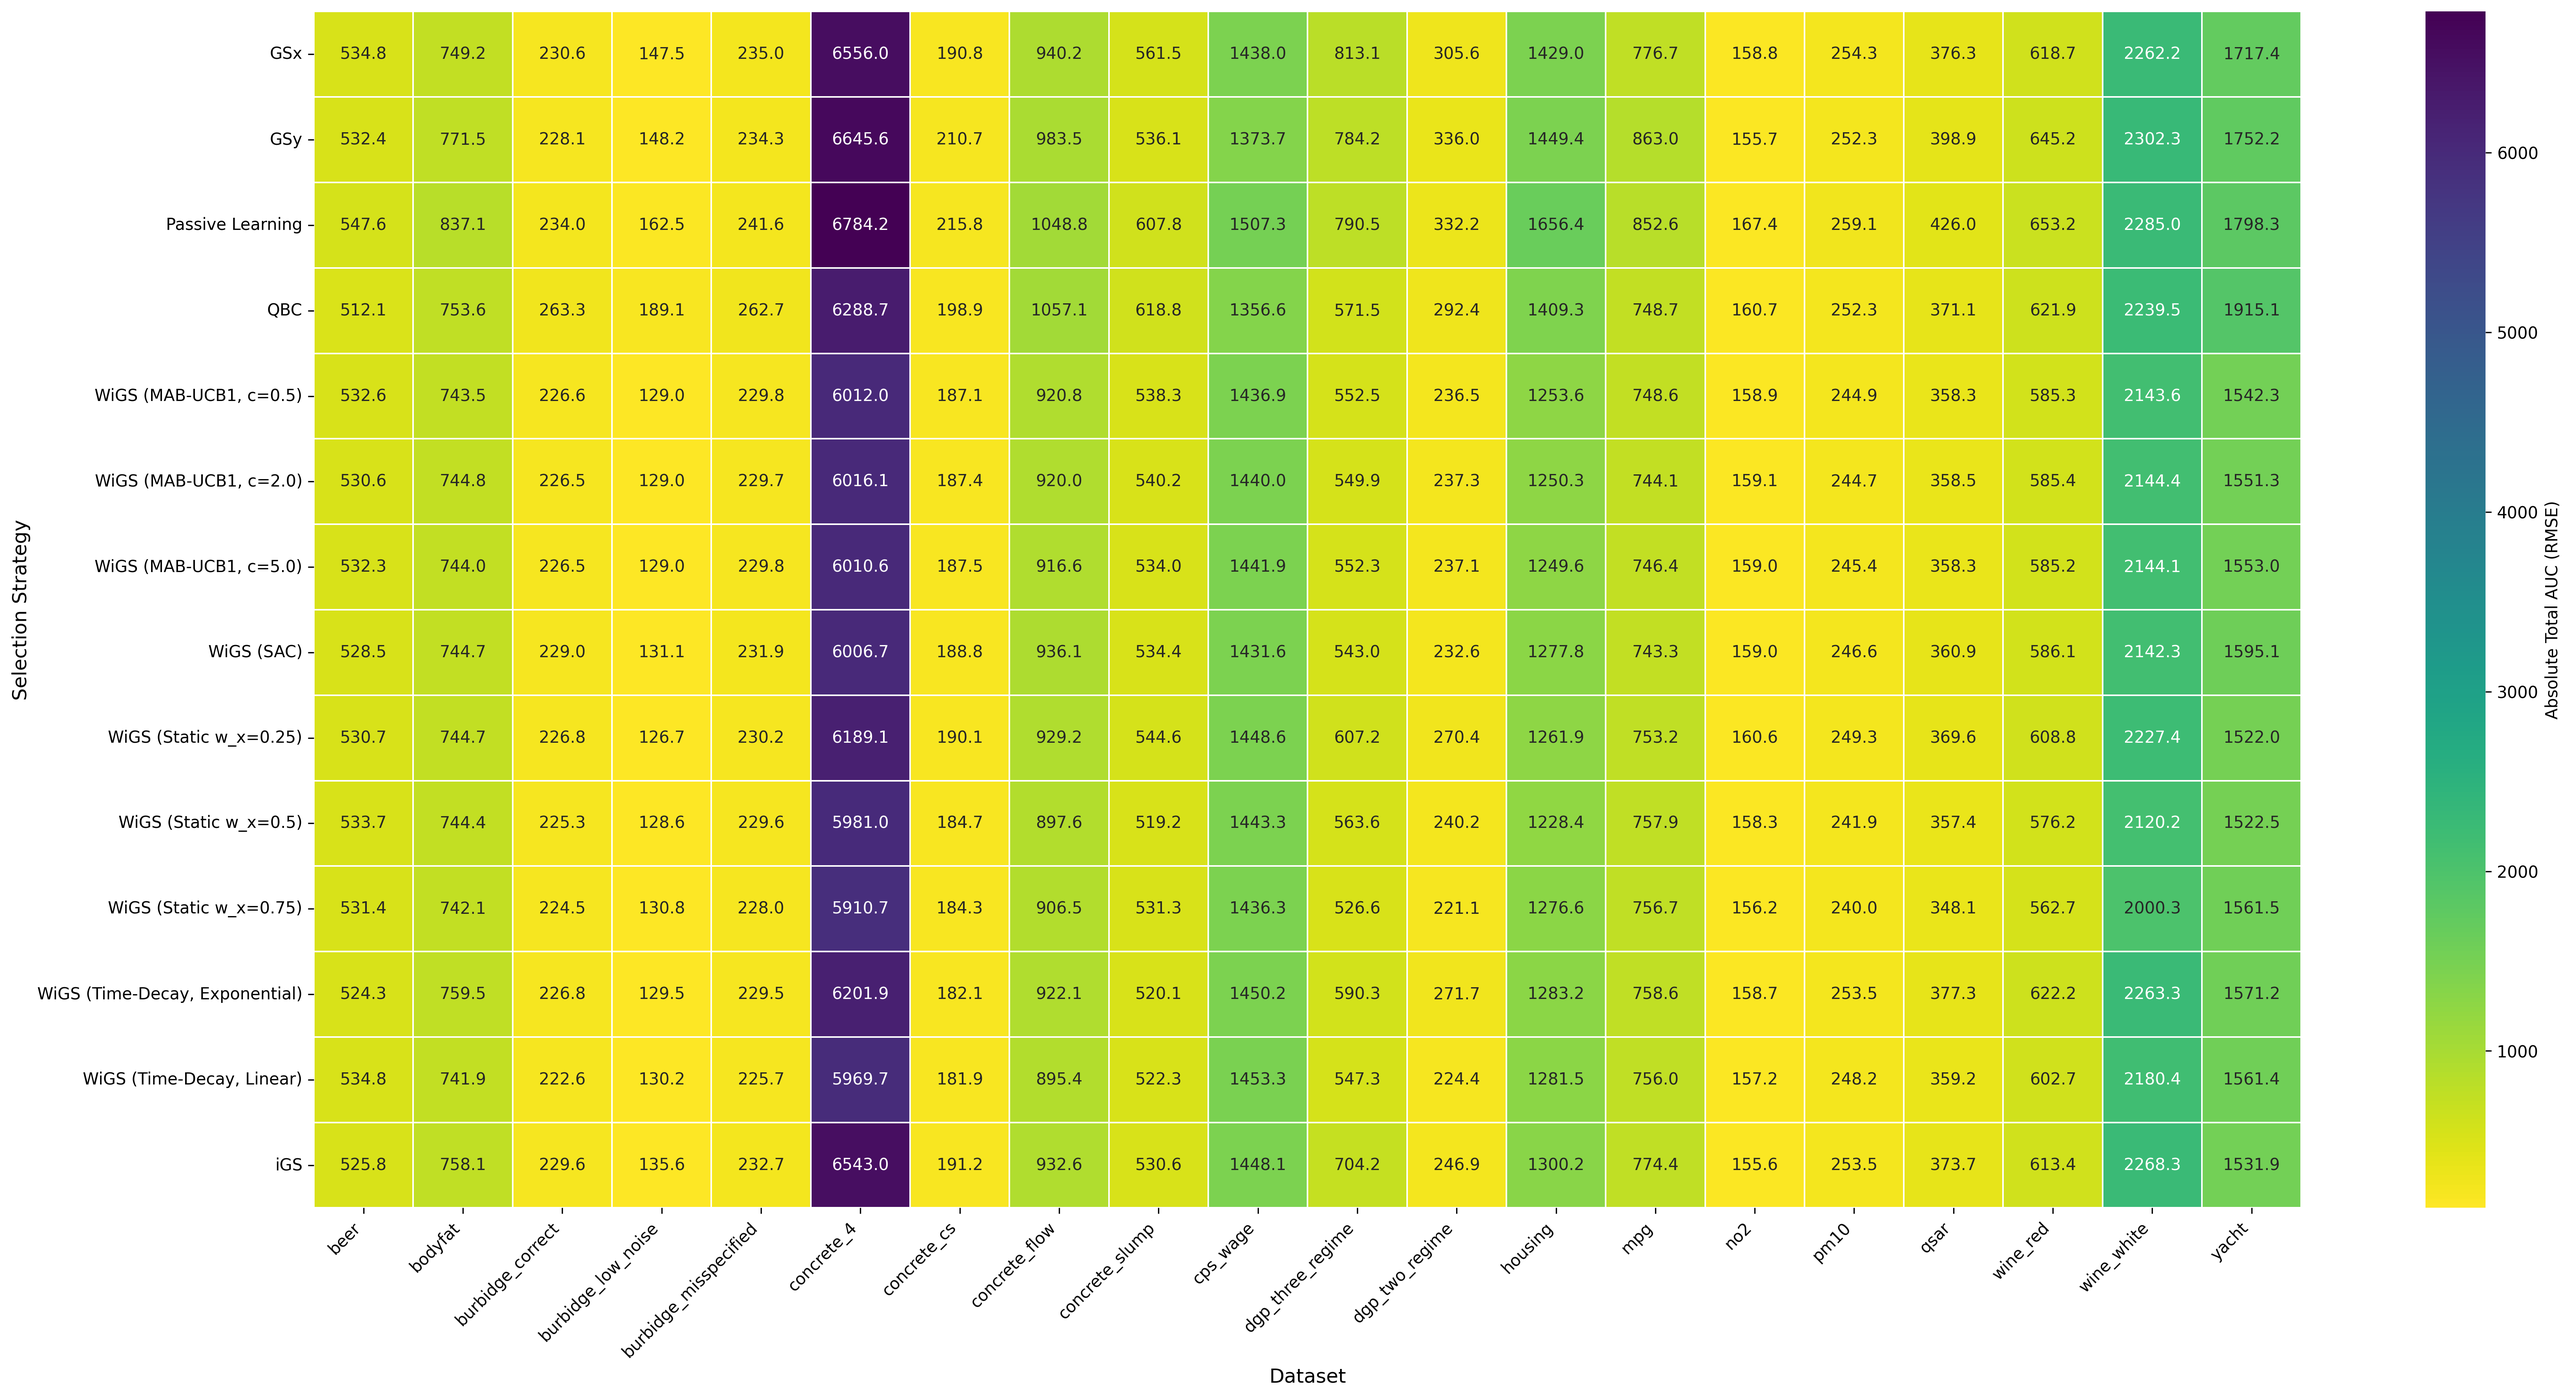
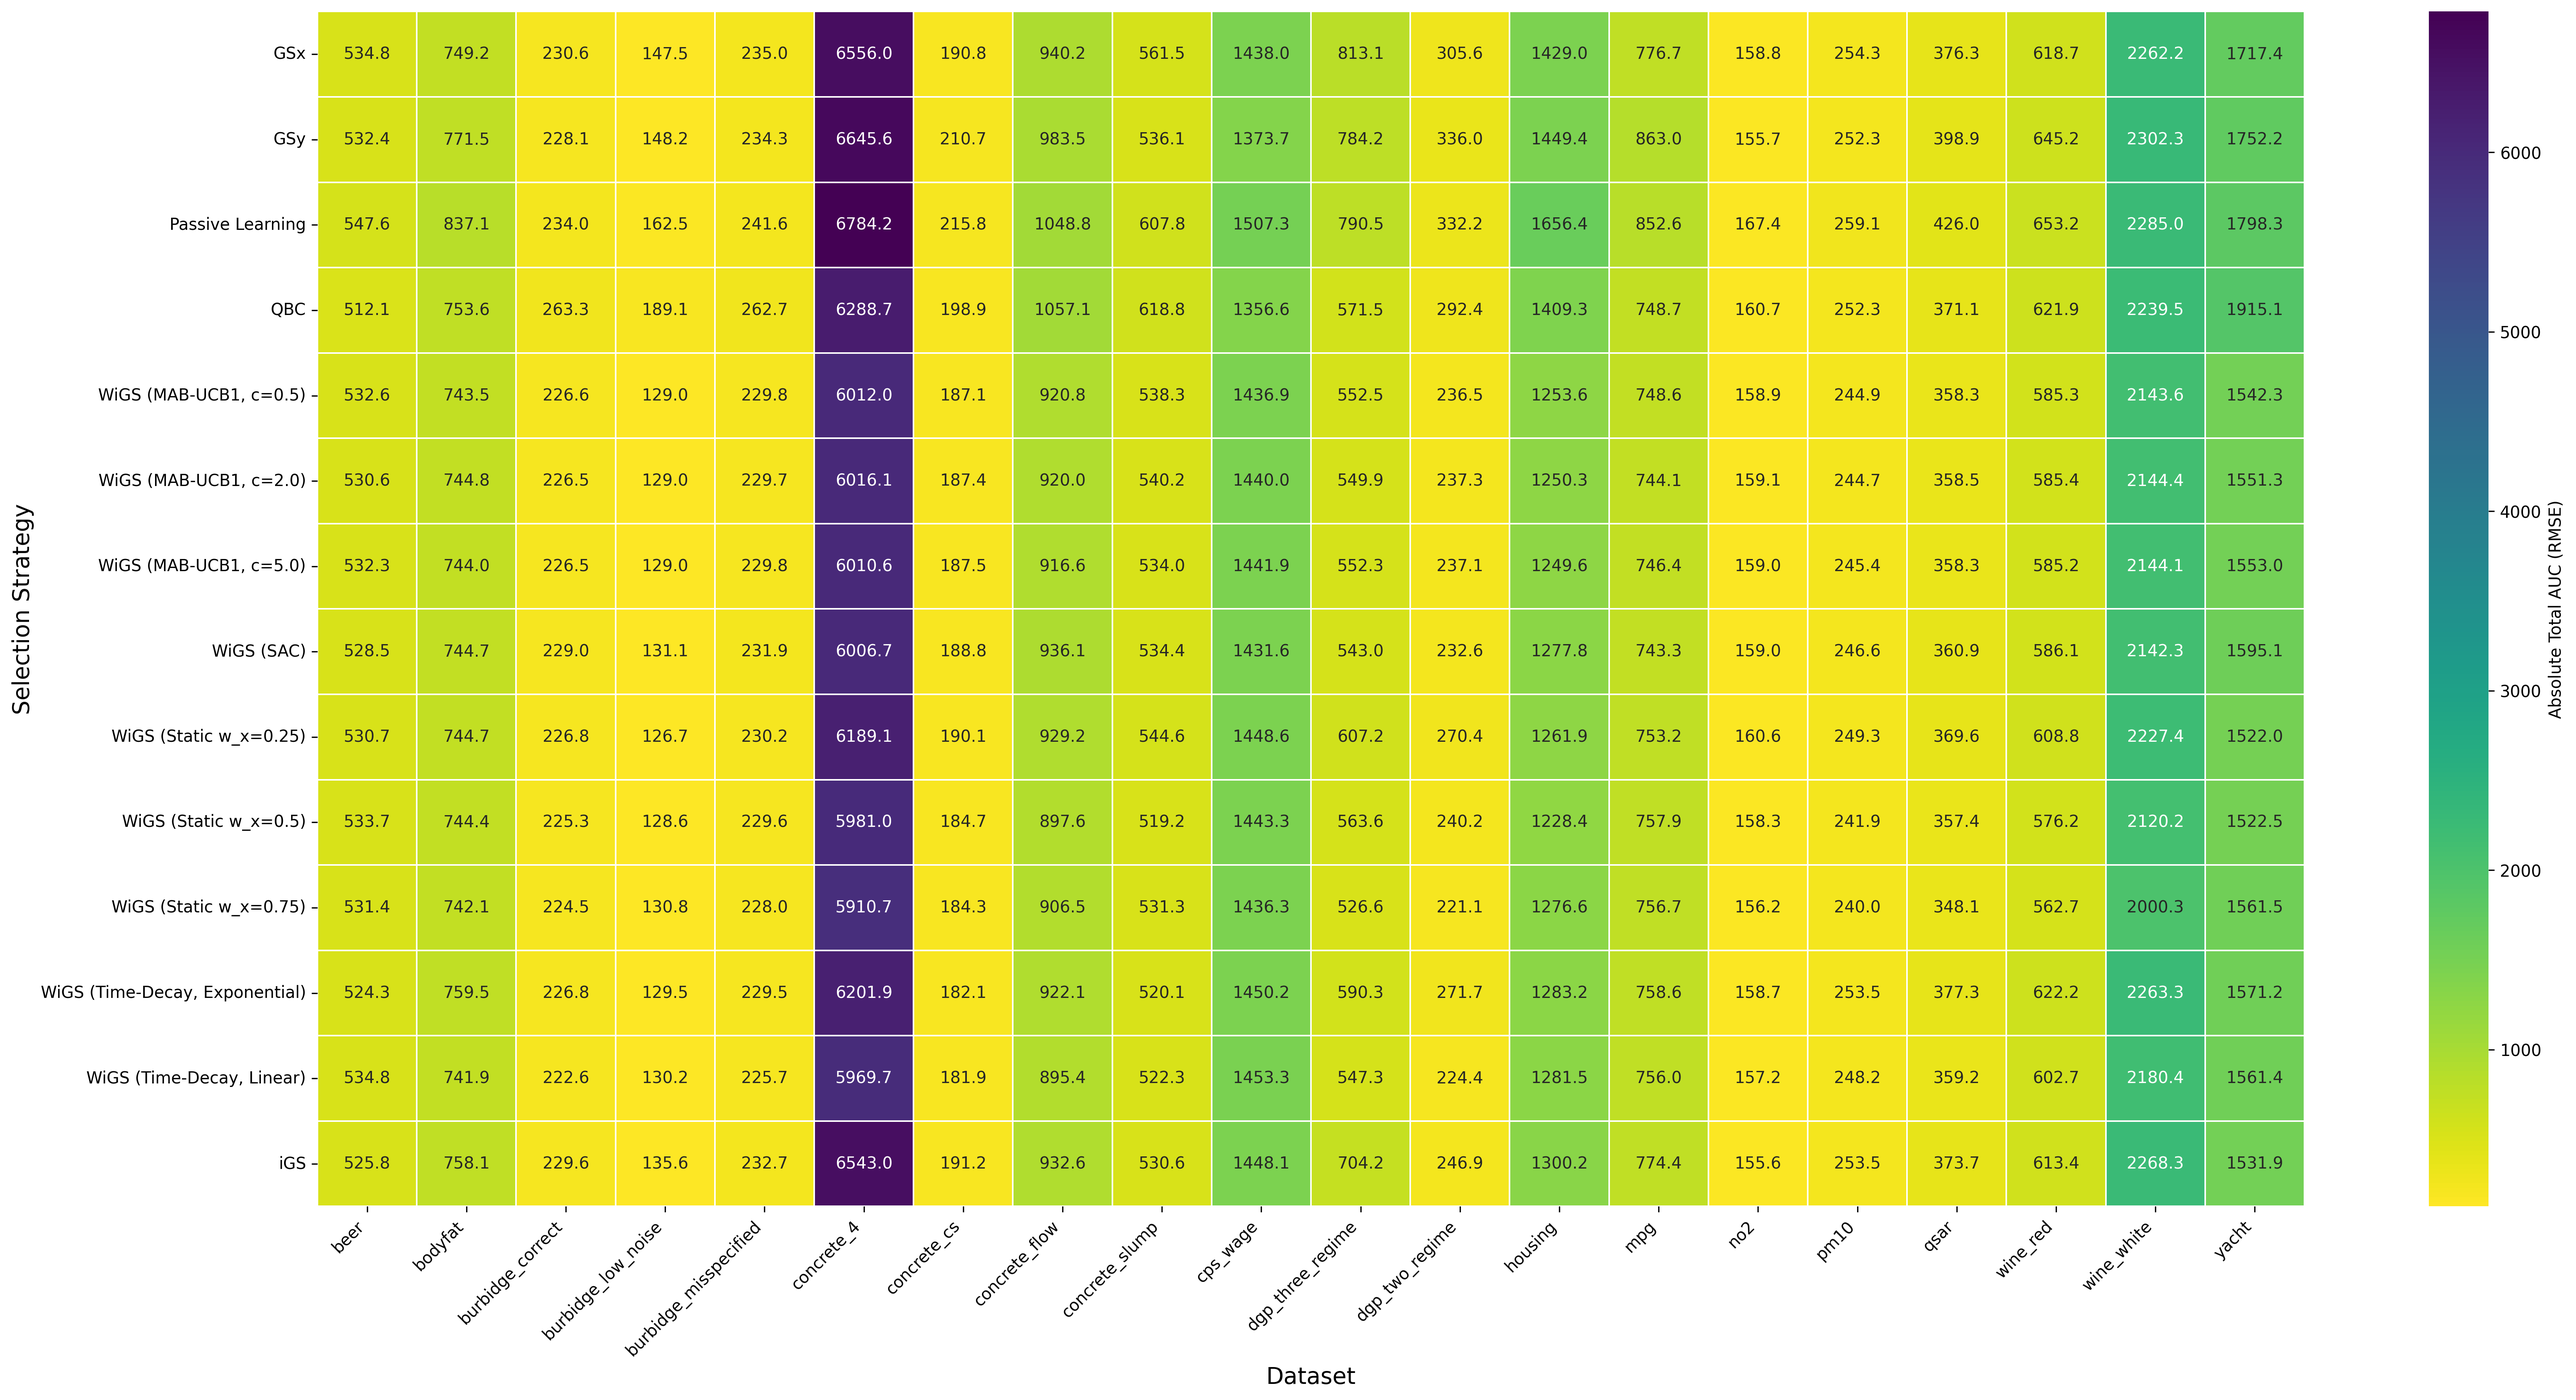
Enlarge image labels

diff --git a/Code/utils/Auxiliary/GenerateAUCTable.py b/Code/utils/Auxiliary/GenerateAUCTable.py
@@ -169,8 +169,8 @@ def generate_heatmap(auc_df, output_dir, baseline_method):
         filename = f"{OUTPUT_FILENAME_BASE}_vs_{safe_baseline}.png"
 
     # Common Plot Settings
-    plt.xlabel('Dataset', fontsize=12)
-    plt.ylabel('Selection Strategy', fontsize=12)
+    plt.xlabel('Dataset', fontsize=14)
+    plt.ylabel('Selection Strategy', fontsize=14)
     plt.xticks(rotation=45, ha='right')
     # plt.title(title_str, fontsize=16)
     plt.tight_layout()
